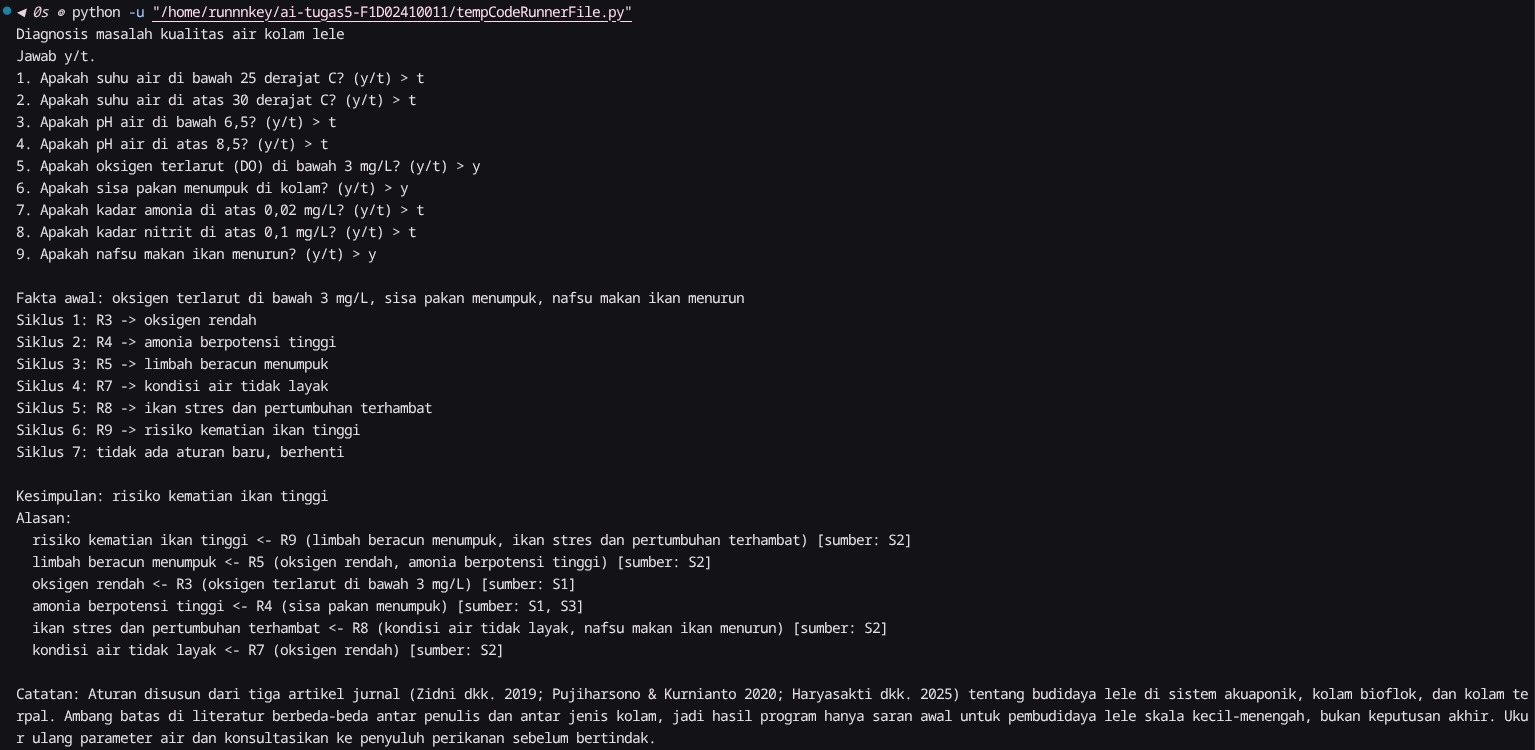
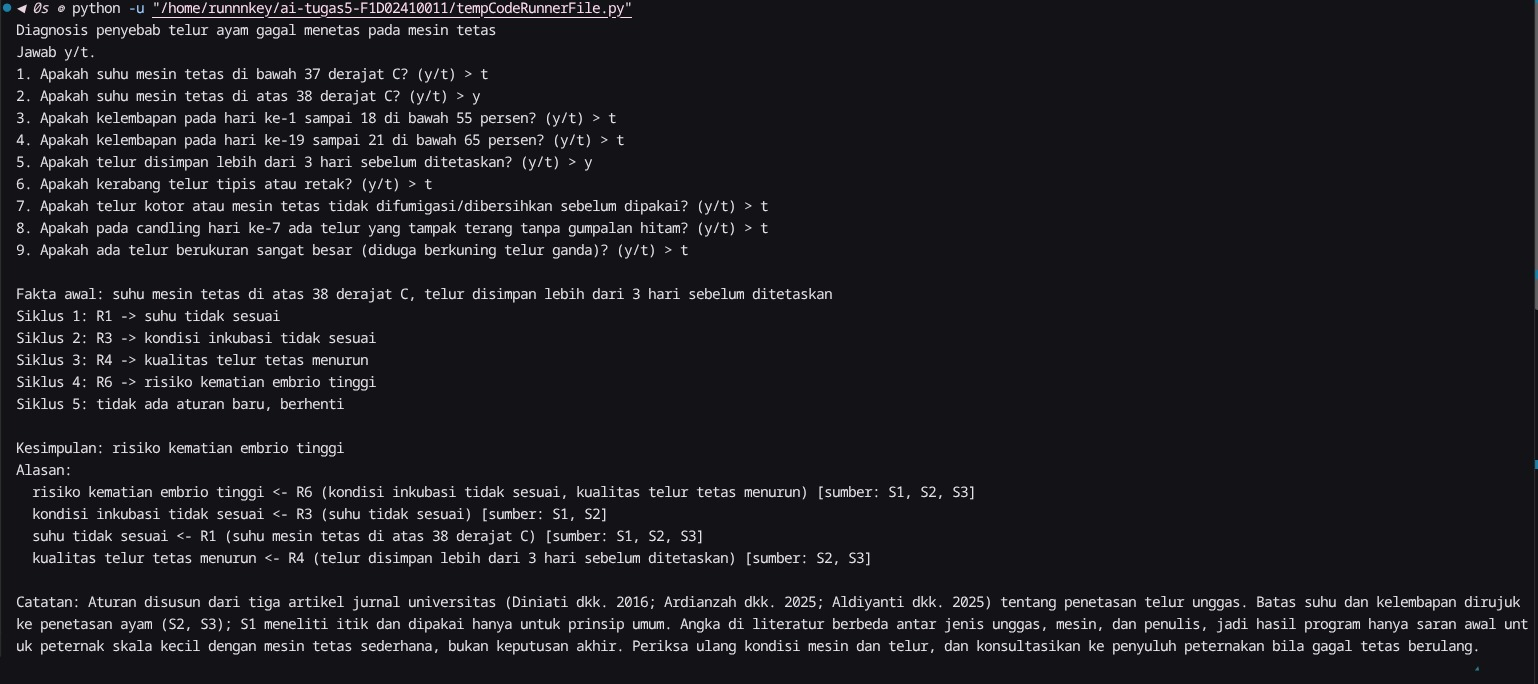
ubah topik

diff --git a/tempCodeRunnerFile.py b/tempCodeRunnerFile.py
@@ -1,0 +1,108 @@
+"""Diagnosis penyebab telur ayam gagal menetas pada mesin tetas.
+
+Jalankan: python main.py            (memakai kb_tetas.json)
+          python main.py kb_lain.json
+"""
+import json
+import sys
+
+
+def muat_kb(path):
+    with open(path, encoding="utf-8") as f:
+        return json.load(f)
+
+
+def syarat_terpenuhi(aturan, memori):
+    """mode 'dan' = semua syarat ada di memori; 'atau' = salah satu cukup."""
+    ada = [s in memori for s in aturan["jika"]]
+    return all(ada) if aturan["mode"] == "dan" else any(ada)
+
+
+def fakta_dasar(kb):
+    """Fakta yang tidak pernah menjadi hasil (maka) aturan mana pun -> ditanyakan ke user."""
+    hasil = {a["maka"] for a in kb["aturan"]}
+    daftar = []
+    for a in kb["aturan"]:
+        for s in a["jika"]:
+            if s not in hasil and s not in daftar:
+                daftar.append(s)
+    return daftar
+
+
+def forward_chaining(kb, fakta_awal):
+    memori = set(fakta_awal)
+    asal = {}   # hasil -> aturan yang menghasilkannya (bahan "alasan")
+    log = []    # urutan aturan yang dijalankan
+    while True:
+        cocok = [a for a in kb["aturan"]
+                 if a["maka"] not in memori and syarat_terpenuhi(a, memori)]
+        if not cocok:
+            break
+        r = cocok[0]                 # ambil aturan pertama
+        memori.add(r["maka"])
+        asal[r["maka"]] = r
+        log.append(r)
+    return memori, asal, log
+
+
+def jejak_alasan(hasil, asal, memori, urut):
+    """Telusuri mundur: hasil <- aturan <- syarat yang juga hasil aturan lain."""
+    if hasil in urut or hasil not in asal:
+        return
+    urut.append(hasil)
+    for s in asal[hasil]["jika"]:
+        if s in memori:
+            jejak_alasan(s, asal, memori, urut)
+
+
+def main():
+    kb = muat_kb(sys.argv[1] if len(sys.argv) > 1 else "kb_tetas.json")
+    print(kb["judul"])
+    print("Jawab y/t.")
+
+    fakta = []
+    for i, f in enumerate(fakta_dasar(kb), 1):
+        while True:
+            j = input(f"{i}. {kb['pertanyaan'][f]} (y/t) > ").strip().lower()
+            if j in ("y", "t"):
+                break
+            print("   Ketik y atau t saja.")
+        if j == "y":
+            fakta.append(f)
+
+    print()
+    print("Fakta awal:", ", ".join(fakta) if fakta else "(tidak ada)")
+    memori, asal, log = forward_chaining(kb, fakta)
+
+    for n, r in enumerate(log, 1):
+        print(f"Siklus {n}: {r['id']} -> {r['maka']}")
+    print(f"Siklus {len(log) + 1}: tidak ada aturan baru, berhenti")
+
+    # kesimpulan akhir = hasil yang tidak dipakai sebagai syarat aturan lain
+    dipakai = {s for a in kb["aturan"] for s in a["jika"]}
+    akhir = [r["maka"] for r in log if r["maka"] not in dipakai]
+    antara = [r["maka"] for r in log if r["maka"] in dipakai]
+
+    print()
+    if akhir:
+        print("Kesimpulan:", "; ".join(akhir))
+        urut = []
+        for h in akhir:
+            jejak_alasan(h, asal, memori, urut)
+        print("Alasan:")
+        for h in urut:
+            r = asal[h]
+            syarat = ", ".join(s for s in r["jika"] if s in memori)
+            print(f"  {h} <- {r['id']} ({syarat}) [sumber: {', '.join(r['sumber'])}]")
+    elif antara:
+        print("Kesimpulan: belum ada kesimpulan akhir.")
+        print("Temuan antara:", "; ".join(antara))
+    else:
+        print("Kesimpulan: tidak ada kesimpulan dari fakta yang diberikan.")
+
+    print()
+    print("Catatan:", kb["batas"])
+
+
+if __name__ == "__main__":
+    main()

diff --git a/main.py b/main.py
@@ -1,6 +1,6 @@
-"""Sistem pakar sederhana: diagnosis kualitas air kolam lele (Forward Chaining).
+"""Diagnosis penyebab telur ayam gagal menetas pada mesin tetas.
 
-Jalankan: python main.py            (memakai kb_lele.json)
+Jalankan: python main.py            (memakai kb_tetas.json)
           python main.py kb_lain.json
 """
 import json
@@ -56,7 +56,7 @@ def jejak_alasan(hasil, asal, memori, urut):
 
 
 def main():
-    kb = muat_kb(sys.argv[1] if len(sys.argv) > 1 else "kb_lele.json")
+    kb = muat_kb(sys.argv[1] if len(sys.argv) > 1 else "kb_tetas.json")
     print(kb["judul"])
     print("Jawab y/t.")
 

diff --git a/README.md b/README.md
@@ -1,15 +1,15 @@
-# Tugas 5 — Sistem Pakar Sederhana: Kualitas Air Kolam Lele
+# Tugas 5 — Sistem Pakar Sederhana: Penyebab Telur Gagal Menetas pada Mesin Tetas
 
 ## 1. Identitas
-- Nama: Kamrun Syah Syahidu
+- Nama: Kamrun SyaH Syahidu
 - NIM: F1D02410011
 - Mata kuliah: Kecerdasan Buatan (MKL1303131), Teknik Informatika UNRAM
 
 ## 2. Topik dan cara menjalankan
-Topik: diagnosis masalah kualitas air kolam budidaya lele (suhu, pH, oksigen terlarut, amonia, nitrit).
+Topik: diagnosis penyebab telur ayam gagal menetas pada mesin tetas (suhu, kelembapan, kondisi telur, dan hasil candling).
 
 - Bahasa: Python 3 (diuji dengan Python 3.10+), tanpa library tambahan.
-- File: `main.py` (mesin), `kb_lele.json` (basis aturan).
+- File: `main.py` (mesin), `kb_tetas.json` (basis aturan).
 - Perintah (jalankan dari folder repository):
 
 ```
@@ -20,35 +20,39 @@ Jawab pertanyaan dengan `y` atau `t`.
 
 ## 3. Sumber dan aturan
 
-Tanggal akses ketiga sumber: 12 November 2026.
 
-|kode: S1 
-sumber: Zidni, I., Iskandar, Rizal, A., Andriani, Y. & Ramadan, R. (2019). *Efektivitas Sistem Akuaponik dengan Jenis Tanaman yang Berbeda terhadap Kualitas Air Media Budidaya Ikan.* Jurnal Perikanan dan Kelautan 9(1):81-94. https://jurnal.untirta.ac.id/index.php/jpk/article/download/7076/4853 
+kode          : S1
+sumber        : Diniati, Rukmiasih & Afnan, R. (2016). *Pengaruh Waktu Dimulainya Pendinginan Selama Penetasan terhadap Daya Tetas Telur Itik Persilangan Cihateup Alabio.* Jurnal Ilmu Produksi dan Teknologi Hasil Peternakan 4(1):251-256 (IPB). https://journal.ipb.ac.id/index.php/ipthp/article/download/15737/11601 
+tanggal akses : 
 
-kode: S2
-sumber: Pujiharsono, H. & Kurnianto, D. (2020). *Sistem inferensi fuzzy Mamdani untuk menentukan tingkat kualitas air pada kolam bioflok dalam budidaya ikan lele.* Jurnal Teknologi dan Sistem Komputer 8(2):84-88. DOI 10.14710/jtsiskom.8.2.2020.84-88. https://jtsiskom.undip.ac.id/article/view/13209 
+kode          : S2 
+sumber        : Ardianzah, F., Humaidah, N. & Wadjdi, F. (2025). *Pengaruh Umur Induk terhadap Breakout Infertil dan Un Hatch Telur Tetas di Perusahaan Pembibitan Komersial.* Dinamika Rekasatwa 8(1):66-69, Fakultas Peternakan, Universitas Islam Malang. https://jim.unisma.ac.id/index.php/fapet/article/download/26953/20394
+tanggal akses : 12 November 2026
 
-kode: s3
-sumber: Haryasakti, A., Rudyanto, Kaharuddin & Wahyudi, M. H. (2025). *Efektivitas Bakteri Fotosintetik Rhobac dalam Meningkatkan Kualitas Air pada Budidaya Ikan Lele di Kolam Terpal.* Jurnal Pertanian Terpadu 13(1):43-52. https://ojs.stiperkutim.ac.id/index.php/jpt/article/download/610/296
+kode          : S3 
+sumber        : Aldiyanti, A., Rizkuna, A., Manullang, J. R. & Fajrih, N. (2025). *Optimasi Penetasan Ayam Kampung: Pengaruh Variasi Bobot Telur terhadap Fertilitas dan Daya Tetas.* Aves: Jurnal Ilmu Peternakan 19(2):7-11, Universitas Mulawarman. https://ejournal.unisbablitar.ac.id/index.php/aves/article/download/5280/2488/21049 
+tanggal akses : 12 November 2026
 
-| Aturan |                              IF                                      |                 THEN                 |   Sumber   |
-|--------|----------------------------------------------------------------------|----------------------------------------------------
-|   R1   | suhu < 25 °C **OR** suhu > 30 °C                                     | suhu tidak layak                     | S1, S2, S3 |
-|   R2   | pH < 6,5 **OR** pH > 8,5                                             | pH tidak layak                       | S2, S3     |
-|   R3   | DO < 3 mg/L                                                          | oksigen rendah                       | S1         |
-|   R4   | sisa pakan menumpuk **OR** amonia > 0,02 mg/L                        | amonia berpotensi tinggi             | S1, S3     |
-|   R5   | oksigen rendah **AND** amonia berpotensi tinggi                      | limbah beracun menumpuk              | S2         |
-|   R6   | nitrit > 0,1 mg/L                                                    | nitrit melebihi ambang batas         | S3         |
-|   R7   | suhu tidak layak **OR** pH tidak layak **OR** oksigen rendah         | kondisi air tidak layak              | S2         |
-|   R8   | kondisi air tidak layak **AND** nafsu makan menurun                  | ikan stres dan pertumbuhan terhambat | S2         |
-|   R9   | limbah beracun menumpuk **AND** ikan stres dan pertumbuhan terhambat | risiko kematian ikan tinggi          | S2         |
+Aturan ditulis dengan kata-kata sendiri (parafrasa), bukan kutipan.
 
-Aturan yang memakai hasil aturan lain: R5 (dari R3 dan R4), R7 (dari R1/R2/R3), R8 (dari R7), R9 (dari R5 dan R8).
+| Aturan |                                        IF                                                       |                  THEN                |   Sumber   |
+|--------|-------------------------------------------------------------------------------------------------|--------------------------------------|------------|
+|   R1   | suhu mesin < 37 °C **OR** suhu mesin > 38 °C                                                    | suhu tidak sesuai                    | S1, S2, S3 |
+|   R2   | kelembapan hari 1–18 < 55% **OR** kelembapan hari 19–21 < 65%                                   | kelembapan tidak sesuai              | S1, S2, S3 |
+|   R3   | suhu tidak sesuai **OR** kelembapan tidak sesuai                                                | kondisi inkubasi tidak sesuai        | S1, S2     |
+|   R4   | telur disimpan > 3 hari **OR** kerabang tipis/retak                                             | kualitas telur tetas menurun         | S2, S3     |
+|   R5   | telur kotor atau mesin tidak difumigasi                                                         | risiko infeksi mikroba               | S2, S3     |
+|   R6   | kondisi inkubasi tidak sesuai **OR** kualitas telur tetas menurun **OR** risiko infeksi mikroba | risiko kematian embrio tinggi        | S1, S2, S3 |
+|   R7   | kelembapan hari 19–21 < 65%                                                                     | anak ayam sulit keluar dari kerabang | S1, S2     |
+|   R8   | candling hari ke-7: telur terang tanpa gumpalan hitam                                           | telur infertil                       | S2, S3     |
+|   R9   | telur berukuran sangat besar (diduga kuning ganda)                                              | telur tidak layak tetas              | S3         |
 
-Catatan perbedaan sumber: batas DO berbeda antar sumber. S1 menyebut optimum > 3 mg/L (dipakai di R3), S3 menyebut 5 mg/L, dan S2 memakai > 1,7 mg/L untuk benih di kolam bioflok. Batas S1 dipilih sebagai batas tengah. Untuk nitrit, S3 menyebut < 0,1 mg/L; sumber lain bisa memakai batas yang lebih ketat.
+Aturan yang memakai hasil aturan lain: R3 (dari R1/R2) dan R6 (dari R3, R4, R5).
+
+Catatan perbedaan sumber: S1 meneliti itik (suhu 38–39 °C), sedangkan S2 dan S3 meneliti ayam (37–38 °C dan 37,5 ± 0,5 °C), sehingga batas suhu dan kelembapan diambil dari S2 dan S3 dan S1 hanya dipakai untuk prinsip umum (suhu terlalu tinggi dan kelembapan terlalu rendah merugikan penetasan). Batas kelembapan akhir (65%) diambil dari S3 dan lebih rendah dari angka saat pipping di S2 (70–75%), sehingga "di bawah 65%" dipakai agar tidak bertentangan dengan keduanya.
 
 ## 4. Metode: Forward Chaining
-Forward chaining dipilih karena data di lapangan berupa pengamatan (fakta) yang lalu dicari kesimpulannya. Cocok untuk diagnosis berantai: hasil satu aturan (misalnya "oksigen rendah") menjadi syarat aturan berikutnya.
+Forward chaining dipilih karena peternak biasanya punya data berupa pengamatan (suhu, kelembapan, kondisi telur) lalu ingin tahu masalah apa yang bisa disimpulkan. Hasil satu aturan (misalnya "suhu tidak sesuai") menjadi syarat aturan berikutnya.
 
 Langkah:
 1. Fakta yang tidak pernah menjadi hasil aturan manapun ditanyakan ke user; jawaban "y" masuk ke memori.
@@ -61,56 +65,73 @@ Aturan yang hasilnya sudah ada di memori tidak dijalankan lagi supaya program be
 
 ## 5. Tiga kasus uji
 
-| # | Jawaban "ya" | Kesimpulan |
-|---|---|---|
-| 1 | DO < 3 mg/L, air pekat, nafsu makan menurun | risiko kematian ikan tinggi |
-| 2 | nafsu makan menurun saja | tidak ada (kasus negatif) |
-| 3 | nitrit > 0,05, suhu berubah-ubah, ikan berdarah | nitrit melebihi ambang batas; infeksi bakteri akibat suhu tidak stabil |
+| # |                     Jawaban "ya"                             |                                    Kesimpulan                                       |
+|---|--------------------------------------------------------------|-------------------------------------------------------------------------------------|
+| 1 | suhu > 38 °C; telur disimpan > 3 hari                        | risiko kematian embrio tinggi                                                       |
+| 2 | tidak ada (semua kondisi sesuai)                             | tidak ada (kasus negatif)                                                           |
+| 3 | kelembapan hari 19–21 < 65%; candling hari ke-7 telur terang | risiko kematian embrio tinggi; anak ayam sulit keluar dari kerabang; telur infertil |
 
+### Kasus 1
+```
+Fakta awal: suhu mesin tetas di atas 38 derajat C, telur disimpan lebih dari 3 hari sebelum ditetaskan
+Siklus 1: R1 -> suhu tidak sesuai
+Siklus 2: R3 -> kondisi inkubasi tidak sesuai
+Siklus 3: R4 -> kualitas telur tetas menurun
+Siklus 4: R6 -> risiko kematian embrio tinggi
+Siklus 5: tidak ada aturan baru, berhenti
 
-# Kasus 1
-Fakta awal: oksigen terlarut di bawah 3 mg/L, sisa pakan menumpuk, nafsu makan ikan menurun
-Siklus 1: R3 -> oksigen rendah
-Siklus 2: R4 -> amonia berpotensi tinggi
-Siklus 3: R5 -> limbah beracun menumpuk
-Siklus 4: R7 -> kondisi air tidak layak
-Siklus 5: R8 -> ikan stres dan pertumbuhan terhambat
-Siklus 6: R9 -> risiko kematian ikan tinggi
-Siklus 7: tidak ada aturan baru, berhenti
-
-Kesimpulan: risiko kematian ikan tinggi
+Kesimpulan: risiko kematian embrio tinggi
 Alasan:
-  risiko kematian ikan tinggi <- R9 (limbah beracun menumpuk, ikan stres dan pertumbuhan terhambat) [sumber: S2]
-  limbah beracun menumpuk <- R5 (oksigen rendah, amonia berpotensi tinggi) [sumber: S2]
-  oksigen rendah <- R3 (oksigen terlarut di bawah 3 mg/L) [sumber: S1]
-  amonia berpotensi tinggi <- R4 (sisa pakan menumpuk) [sumber: S1, S3]
-  ikan stres dan pertumbuhan terhambat <- R8 (kondisi air tidak layak, nafsu makan ikan menurun) [sumber: S2]
-  kondisi air tidak layak <- R7 (oksigen rendah) [sumber: S2]
+  risiko kematian embrio tinggi <- R6 (kondisi inkubasi tidak sesuai, kualitas telur tetas menurun) [sumber: S1, S2, S3]
+  kondisi inkubasi tidak sesuai <- R3 (suhu tidak sesuai) [sumber: S1, S2]
+  suhu tidak sesuai <- R1 (suhu mesin tetas di atas 38 derajat C) [sumber: S1, S2, S3]
+  kualitas telur tetas menurun <- R4 (telur disimpan lebih dari 3 hari sebelum ditetaskan) [sumber: S2, S3]
+```
+![Kasus 1](ss/kasus-1.jpeg)
 
-  ![Kasus 1](ss/kasus-1.jpeg)
-
-# Kasus 2
-Fakta awal: nafsu makan ikan menurun
+### Kasus 2 (negatif)
+```
+Fakta awal: (tidak ada)
 Siklus 1: tidak ada aturan baru, berhenti
 
 Kesimpulan: tidak ada kesimpulan dari fakta yang diberikan.
+```
+![Kasus 2](ss/kasus-2.jpeg)
 
-![Kasus 1](ss/kasus-1.jpeg)
+### Kasus 3
+```
+Fakta awal: kelembapan hari 19-21 di bawah 65 persen, candling hari ke-7 telur tampak terang tanpa gumpalan hitam
+Siklus 1: R2 -> kelembapan tidak sesuai
+Siklus 2: R3 -> kondisi inkubasi tidak sesuai
+Siklus 3: R6 -> risiko kematian embrio tinggi
+Siklus 4: R7 -> anak ayam sulit keluar dari kerabang
+Siklus 5: R8 -> telur infertil
+Siklus 6: tidak ada aturan baru, berhenti
 
-# Kasus 3
-Fakta awal: amonia di atas 0,02 mg/L, nitrit di atas 0,1 mg/L
-Siklus 1: R4 -> amonia berpotensi tinggi
-Siklus 2: R6 -> nitrit melebihi ambang batas
-Siklus 3: tidak ada aturan baru, berhenti
-
-Kesimpulan: nitrit melebihi ambang batas
+Kesimpulan: risiko kematian embrio tinggi; anak ayam sulit keluar dari kerabang; telur infertil
 Alasan:
-  nitrit melebihi ambang batas <- R6 (nitrit di atas 0,1 mg/L) [sumber: S3]
-
-![Kasus 1](ss/kasus-1.jpeg)
+  risiko kematian embrio tinggi <- R6 (kondisi inkubasi tidak sesuai) [sumber: S1, S2, S3]
+  kondisi inkubasi tidak sesuai <- R3 (kelembapan tidak sesuai) [sumber: S1, S2]
+  kelembapan tidak sesuai <- R2 (kelembapan hari 19-21 di bawah 65 persen) [sumber: S1, S2, S3]
+  anak ayam sulit keluar dari kerabang <- R7 (kelembapan hari 19-21 di bawah 65 persen) [sumber: S1, S2]
+  telur infertil <- R8 (candling hari ke-7 telur tampak terang tanpa gumpalan hitam) [sumber: S2, S3]
+```
+![Kasus 2](ss/kasus-3.jpeg)
 
 ## 6. Batas keberlakuan
-Pengetahuan dalam program ini berasal dari dua artikel jurnal: satu pengamatan di sebuah unit budidaya lele sangkuriang di Jatinangor (kolam bundar) dan satu penelitian pada kolam bioflok. Ambang batas dalam literatur berbeda antar penulis dan antar jenis kolam, sehingga aturan ini hanya cocok sebagai panduan awal untuk pembudidaya lele skala kecil-menengah. Hasil program adalah saran, bukan keputusan akhir; ukur ulang parameter air dan konsultasikan dengan penyuluh perikanan sebelum bertindak. Catatan yang sama ditampilkan di akhir keluaran program.
+Pengetahuan dalam program ini berasal dari tiga artikel jurnal universitas tentang penetasan unggas (satu pada itik, dua pada ayam) dan hanya berlaku untuk penetasan telur ayam dengan mesin tetas. Angka suhu dan kelembapan di literatur berbeda antar jenis unggas, mesin, dan penulis, sehingga aturan ini hanya cocok sebagai panduan awal bagi peternak skala kecil. Hasil program adalah saran, bukan keputusan akhir; periksa kembali kondisi mesin dan telur, dan konsultasikan dengan penyuluh peternakan bila gagal tetas terjadi berulang. Catatan yang sama ditampilkan di akhir keluaran program.
 
 ## 7. Penggunaan alat bantu AI
-Claude (Anthropic) dipakai untuk membantu mencari sumber, menyusun draf aturan, kode, dan README. Aturan, kode, dan hasil uji sudah saya baca, jalankan, dan pahami sendiri.
+**Alat:** Claude Sonnet 5.5 (Anthropic), diakses lewat aplikasi Claude, November 2026.
+
+**Dipakai untuk:**
+- Mencari kandidat sumber jurnal tentang penetasan telur.
+- Menyusun draf awal aturan, kode `main.py`, dan kerangka README.
+- Menjelaskan cara kerja forward chaining.
+
+**Saya kerjakan dan verifikasi sendiri:**
+- [Membuka dan membaca ketiga jurnal, dan memeriksa bahwa setiap ambang batas pada aturan memang berasal dari sumber tersebut.]
+- [Menyesuaikan aturan: tulis perubahan yang benar-benar kamu buat.]
+- [Menjalankan program, menguji tiga kasus, dan mengambil tangkapan layar sendiri.]
+
+**Catatan:** Kode dan aturan di repositori ini awalnya berasal dari draf AI. Saya sudah membaca logikanya dan siap menjelaskannya.
